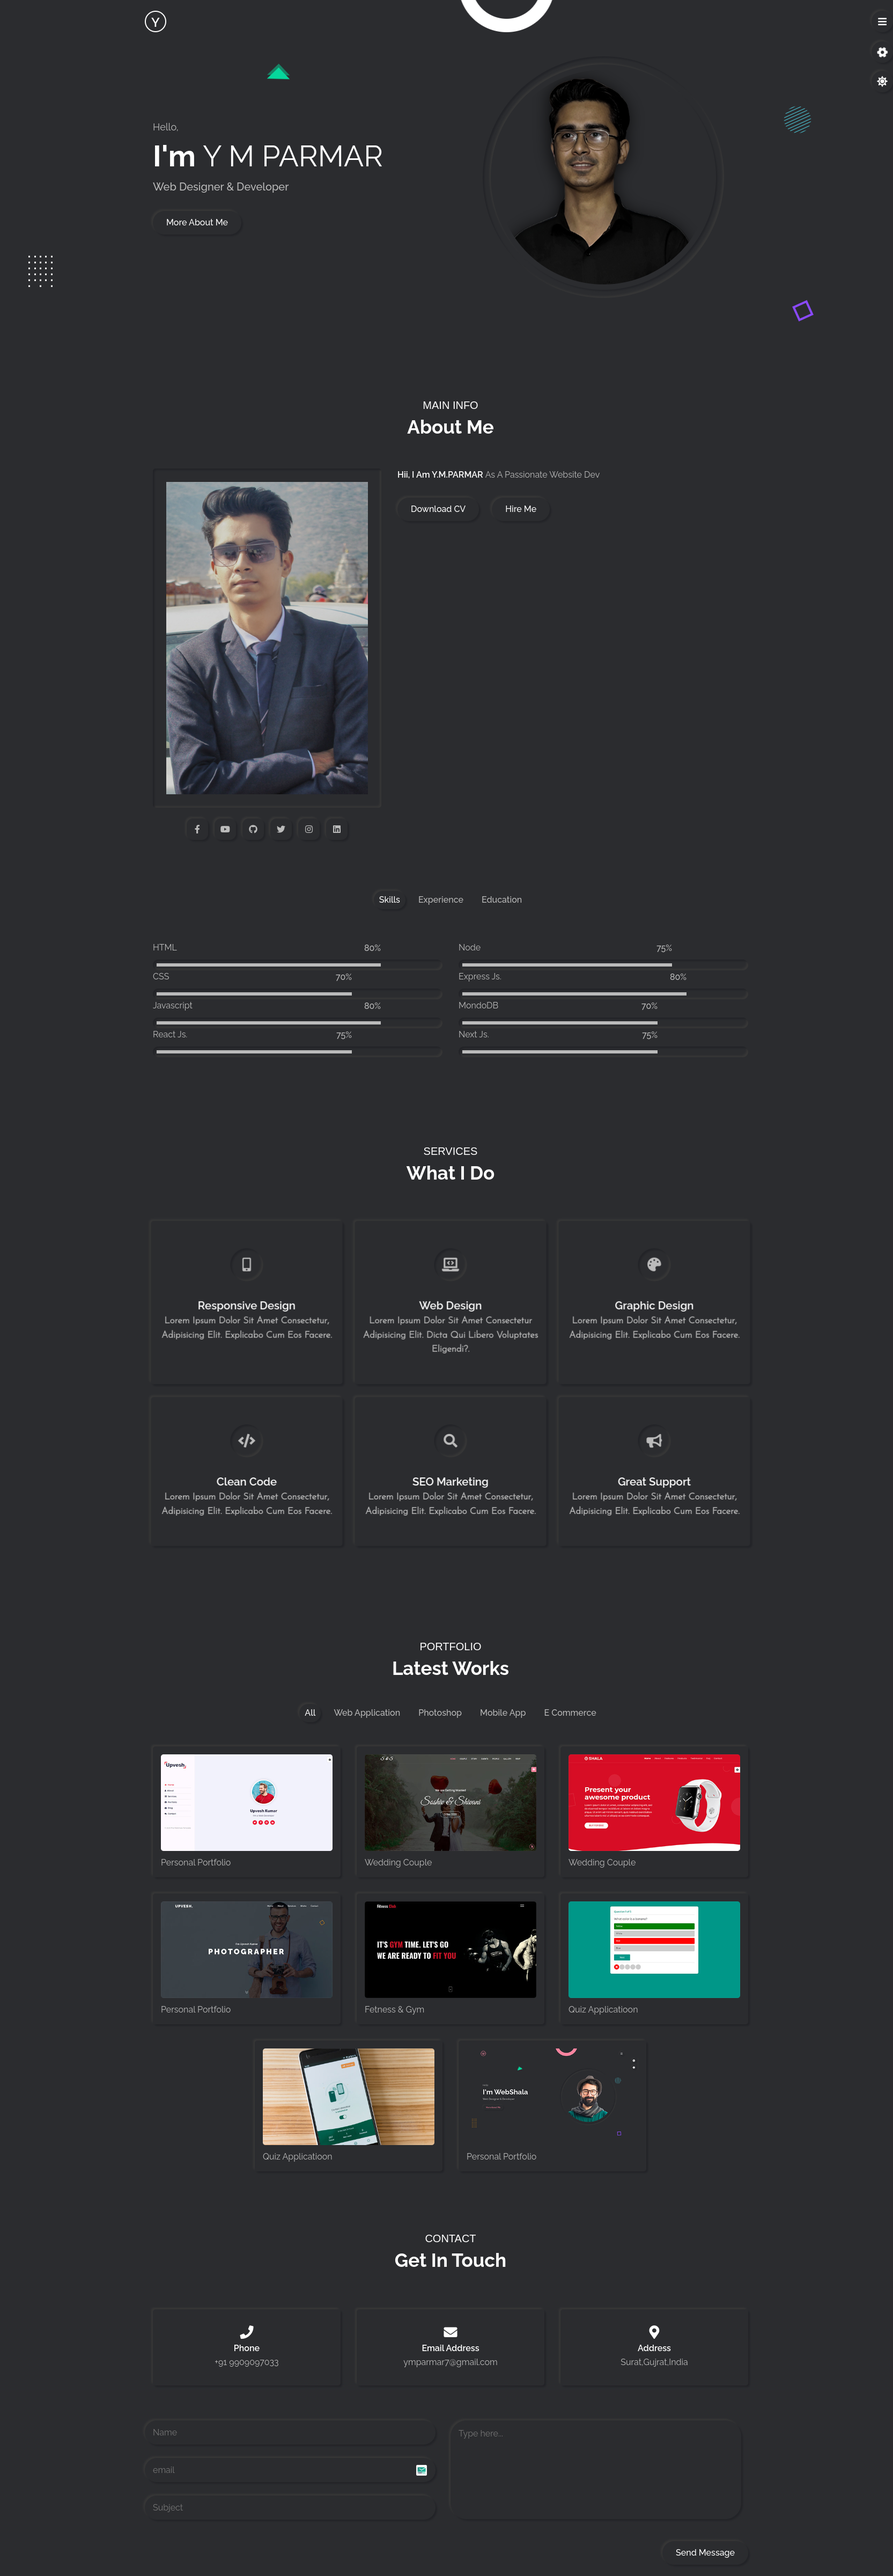
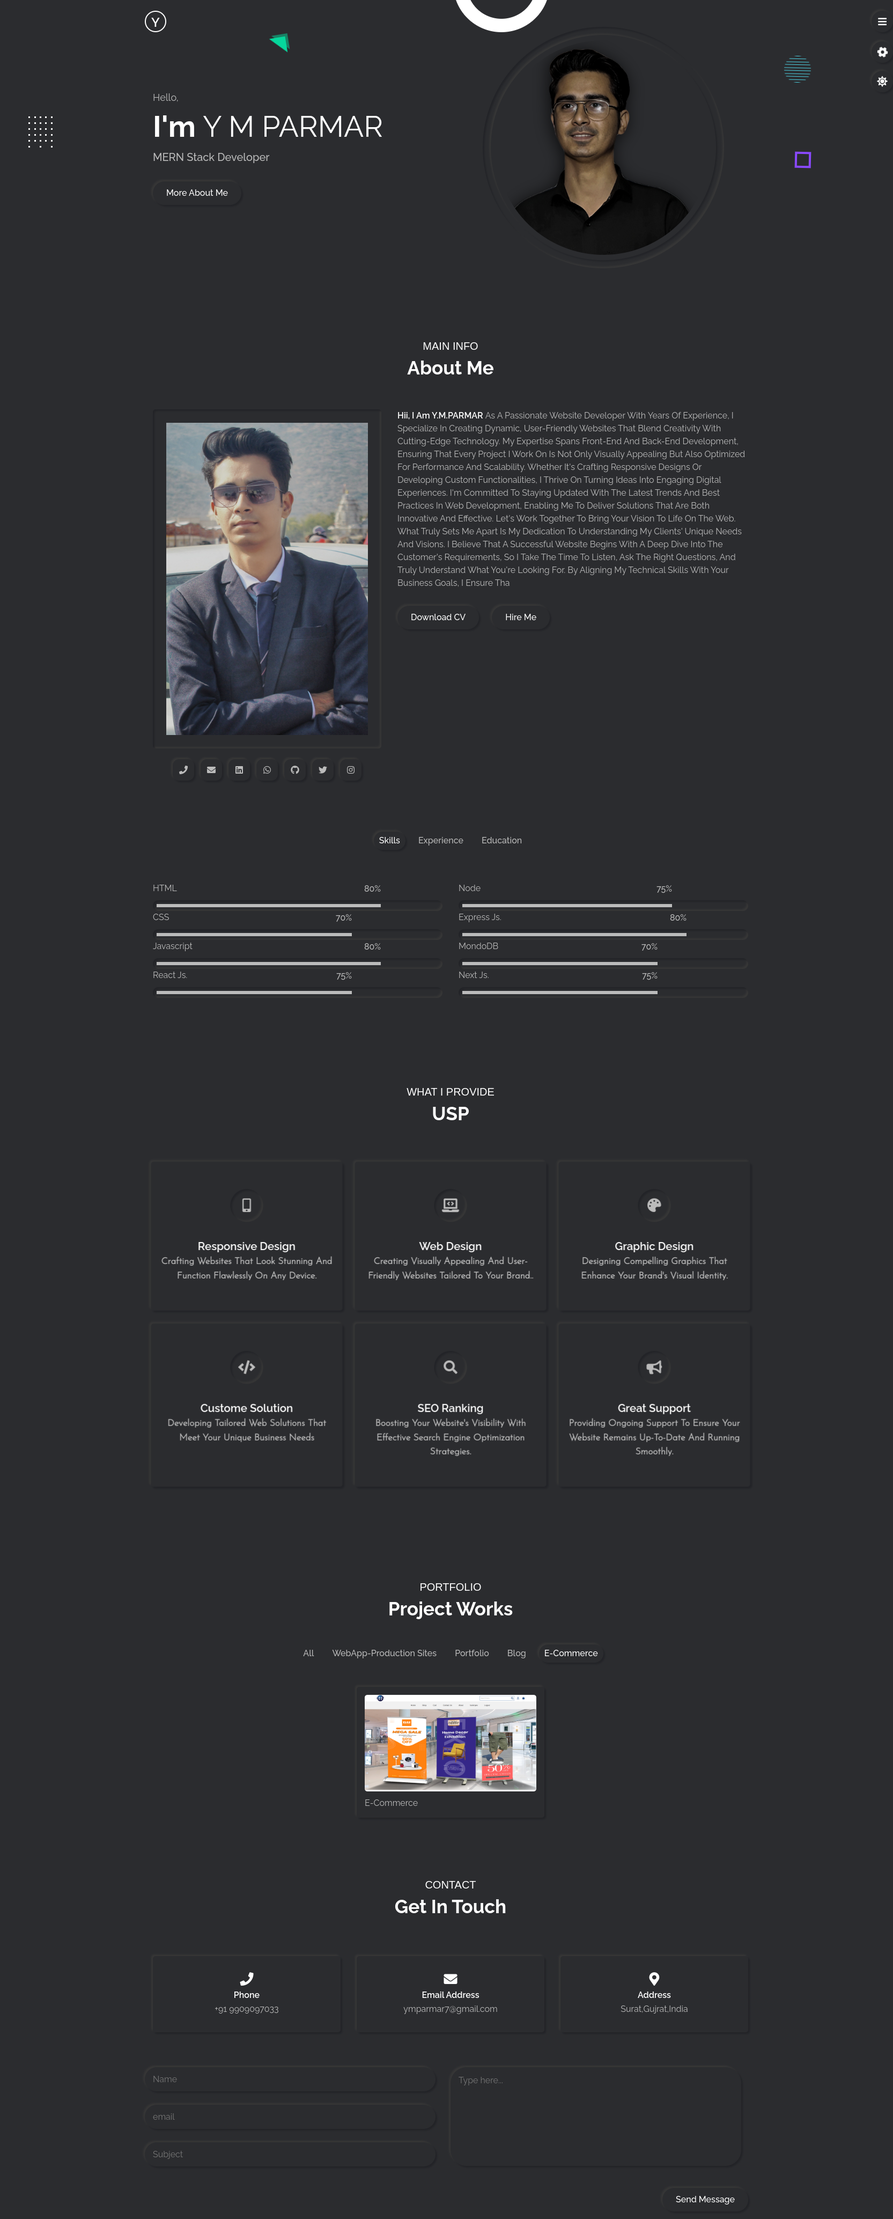
update

diff --git a/index.html b/index.html
@@ -444,7 +444,7 @@
                 <div class="row">
                   <div class="portfolio-filter">
                     <span class="filter-item outer-shadow active" data-target="all">All</span>
-                    <span class="filter-item" data-target="projects">WebApp</span>
+                    <span class="filter-item" data-target="projects">WebApp-production sites</span>
                     <span class="filter-item" data-target="portfolio">Portfolio </span>
                     <span class="filter-item" data-target="blog">Blog </span>
                     <span class="filter-item" data-target="e-commerce">e-commerce</span>
@@ -467,20 +467,20 @@
                         <!-- view project button  -->
                         <span class="view-project">view project</span>
                       </div>
-                      <p class="portfolio-item-title">portfolio website</p>
+                      <p class="portfolio-item-title">WebApp-Production site</p>
                       <!-- ========== Start portfolio item details ========== -->
                           <div class="portfolio-item-details">
                             <div class="row">
                               <div class="description">
                                 <h3>Project brief: </h3>
-                                <p>laxmopump is a site</p>
+                                <p>laxmopump is a user interactive site to display pumps and motors in which customer can get overview of pumps. </p>
                               </div>
                               <div class="info">
                                 <h3>Project info</h3>
                                 <ul>
                                   <li>Date - <span>2024</span></li>
                                   <li>Client - <span>Laxmopumps</span></li>
-                                  <li>Tools - <span>html, css, js, react ,firebase</span></li>
+                                  <li>Tools - <span>html, css, js, react ,firebase,redux</span></li>
                                   <li>Web - <span><a href="https://laxmopumps.com/" id="link" target="_next">laxmopumps.com</a></span></li>
                                 </ul>
                               </div>
@@ -491,31 +491,34 @@
                   </div>
                   <!-- ========== End portfolio item ========== -->
                   <!-- ========== Start portfolio item ========== -->
-                  <div class="portfolio-item" data-category="projects">
+                  <div class="portfolio-item" data-category="e-commerce">
                     <div class="portfolio-item-inner outer-shadow">
                       <div class="portfolio-item-image">
-                        <img src="img/portfolio/thumb/project-2.png" alt="portfolio" data-screenshots="img/portfolio/large/project-2/1.png, 
-                        img/portfolio/large/project-2/2.png"
+                        <img src="img/portfolio/thumb/project-2.png" alt="" data-screenshots="
+                        img/portfolio/large/project-2/1.png, 
+                        img/portfolio/large/project-2/2.png,
+                        img/portfolio/large/project-2/3.png,
+                        img/portfolio/large/project-2/4.png",  
                         >
 
                         <!-- view project button  -->
                         <span class="view-project">view project</span>
                       </div>
-                      <p class="portfolio-item-title">wedding couple</p>
+                      <p class="portfolio-item-title">E-commerce</p>
                       <!-- ========== Start portfolio item details ========== -->
                           <div class="portfolio-item-details">
                             <div class="row">
                               <div class="description">
                                 <h3>Project brief: </h3>
-                                <p>Lorem ipsum dolor, sit amet consectetur adipisicing elit. Hic doloribus labore assumenda nostrum commodi. Officia.</p>
+                                <p>Hariimpex is surat based menufacturer. i made a e-commerce site to ease their business with inmtegrating payment gateway </p>
                               </div>
                               <div class="info">
                                 <h3>Project info</h3>
                                 <ul>
-                                  <li>Date - <span>2021</span></li>
-                                  <li>Client - <span>xyz</span></li>
-                                  <li>Tools - <span>html, css, Jquery</span></li>
-                                  <li>Web - <span><a href="#" id="link" target="_next">www.morsed.com/project_name</a></span></li>
+                                  <li>Date - <span>2024</span></li>
+                                  <li>Client - <span>Hariimpex</span></li>
+                                  <li>Tools - <span>html, css, JavaScript, react,redux, firebase</span></li>
+                                  <li>Web - <span><a href="https://hariimpex.in/" id="link" target="_next">Hariimpex.in</a></span></li>
                                 </ul>
                               </div>
                             </div>
@@ -526,35 +529,34 @@
                   <!-- ========== End portfolio item ========== -->
 
                   <!-- ========== Start portfolio item ========== -->
-                  <div class="portfolio-item" data-category="e-commerce">
+                  <div class="portfolio-item" data-category="projects">
                     <div class="portfolio-item-inner outer-shadow">
                       <div class="portfolio-item-image">
                         <img src="img/portfolio/thumb/project-3.png" alt="portfolio" data-screenshots="
                         img/portfolio/large/project-3/1.png, 
                         img/portfolio/large/project-3/2.png,
                         img/portfolio/large/project-3/3.png,
-                        img/portfolio/large/project-3/4.png,
                         img/portfolio/large/project-3/5.png
                         ">
 
                         <!-- view project button  -->
                         <span class="view-project">view project</span>
                       </div>
-                      <p class="portfolio-item-title">wedding couple</p>
+                      <p class="portfolio-item-title">WebApp Demo site</p>
                       <!-- ========== Start portfolio item details ========== -->
                           <div class="portfolio-item-details">
                             <div class="row">
                               <div class="description">
                                 <h3>Project brief: </h3>
-                                <p>Lorem Lorem ipsum dolor sit amet consectetur, adipisicing elit. Nulla illo atque accusantium debitis non necessitatibus laboriosam architecto quas voluptatem? Autem hic in molestias rerum laborum ex ratione voluptatibus impedit aliquam! ipsum dolor, sit amet consectetur adipisicing elit. Hic doloribus labore assumenda nostrum commodi. Officia.</p>
+                                <p>weasly store is a beautiful UI project to enhance skill using react.</p>
                               </div>
                               <div class="info">
-                                <h3>product loading page</h3>
+                                <h3>project info</h3>
                                 <ul>
-                                  <li>Date - <span>2021</span></li>
-                                  <li>Client - <span>xyz</span></li>
-                                  <li>Tools - <span>html, css, Jquery, PHP, Ajax</span></li>
-                                  <li>Web - <span><a href="#" id="link" target="_next">www.morsed.com/project_name</a></span></li>
+                                  <li>Date - <span>2024</span></li>
+                                  <li>Client - <span>personal project</span></li>
+                                  <li>Tools - <span>html, css, JavaScript, react, redux</span></li>
+                                  <li>Web - <span><a href="https://mntn-ui.vercel.app/" id="link" target="_next">Weasly store</a></span></li>
                                 </ul>
                               </div>
                             </div>
@@ -564,7 +566,7 @@
                   </div>
                   <!-- ========== End portfolio item ========== -->
                   <!-- ========== Start portfolio item ========== -->
-                  <div class="portfolio-item" data-category="projects">
+                  <div class="portfolio-item" data-category="portfolio">
                     <div class="portfolio-item-inner outer-shadow">
                       <div class="portfolio-item-image">
                         <img src="img/portfolio/thumb/project-4.png" alt="portfolio" data-screenshots="
@@ -579,15 +581,15 @@
                             <div class="row">
                               <div class="description">
                                 <h3>Project brief: </h3>
-                                <p>Lorem ipsum dolor, sit amet consectetur adipisicing elit. Hic doloribus labore assumenda nostrum commodi. Officia.</p>
+                                <p>MNTN is a beautiful UI for the mountain hiking landing page to showcase my skill in HTML and CSS.</p>
                               </div>
                               <div class="info">
-                                <h3>product loading page</h3>
+                                <h3>Project Info</h3>
                                 <ul>
-                                  <li>Date - <span>2021</span></li>
-                                  <li>Client - <span>xyz</span></li>
-                                  <li>Tools - <span>html, css, Jquery, PHP, Ajax</span></li>
-                                  <li>Web - <span><a href="#" id="link" target="_next">www.morsed.com/project_name</a></span></li>
+                                  <li>Date - <span>2024</span></li>
+                                  <li>Client - <span>Personal Project</span></li>
+                                  <li>Tools - <span>html, css</span></li>
+                                  <li>Web - <span><a href="https://mntn-ui.vercel.app/" id="link" target="_next">MNTN - mountain</a></span></li>
                                 </ul>
                               </div>
                             </div>
@@ -597,7 +599,7 @@
                   </div>
                   <!-- ========== End portfolio item ========== -->
                   <!-- ========== Start portfolio item ========== -->
-                  <div class="portfolio-item" data-category="projects">
+                  <div class="portfolio-item" data-category="portfolio">
                     <div class="portfolio-item-inner outer-shadow">
                       <div class="portfolio-item-image">
                         <img src="img/portfolio/thumb/project-5.png" alt="portfolio" data-screenshots="
@@ -606,21 +608,21 @@
                         <!-- view project button  -->
                         <span class="view-project">view project</span>
                       </div>
-                      <p class="portfolio-item-title">fetness & gym</p>
+                      <p class="portfolio-item-title">Portfolio</p>
                       <!-- ========== Start portfolio item details ========== -->
                           <div class="portfolio-item-details">
                             <div class="row">
                               <div class="description">
                                 <h3>Project brief: </h3>
-                                <p>Lorem ipsum dolor, sit amet consectetur adipisicing elit. Hic doloribus labore assumenda nostrum commodi. Officia.</p>
+                                <p>tec solution is a user interactive design and responsive website  for the IT service provide</p>
                               </div>
                               <div class="info">
-                                <h3>product loading page</h3>
+                                <h3>Project Info</h3>
                                 <ul>
-                                  <li>Date - <span>2021</span></li>
-                                  <li>Client - <span>xyz</span></li>
-                                  <li>Tools - <span>html, css, Jquery, PHP, Ajax</span></li>
-                                  <li>Web - <span><a href="#" id="link" target="_next">www.morsed.com/project_name</a></span></li>
+                                  <li>Date - <span>2024</span></li>
+                                  <li>Client - <span>compony portfolio</span></li>
+                                  <li>Tools - <span>html, css, Javascript</span></li>
+                                  <li>Web - <span><a href="https://tecsolution.vercel.app/" id="link" target="_next">tec solution</a></span></li>
                                 </ul>
                               </div>
                             </div>
@@ -631,33 +633,30 @@
                   <!-- ========== End portfolio item ========== -->
                   
                   <!-- ========== Start portfolio item ========== -->
-                  <div class="portfolio-item" data-category="projects">
+                  <div class="portfolio-item" data-category="portfolio">
                     <div class="portfolio-item-inner outer-shadow">
                       <div class="portfolio-item-image">
                         <img src="img/portfolio/thumb/project-6.png" alt="portfolio" data-screenshots="
-                        img/portfolio/large/project-6/1.png,
-                        img/portfolio/large/project-6/2.png,
-                        img/portfolio/large/project-6/3.png,
-                        ">
+                        img/portfolio/large/project-6/1.png">
 
                         <!-- view project button  -->
                         <span class="view-project">view project</span>
                       </div>
-                      <p class="portfolio-item-title">quiz applicatioon</p>
+                      <p class="portfolio-item-title">Personal Portfolio</p>
                       <!-- ========== Start portfolio item details ========== -->
                           <div class="portfolio-item-details">
                             <div class="row">
                               <div class="description">
                                 <h3>Project brief: </h3>
-                                <p>Lorem ipsum dolor, sit amet consectetur adipisicing elit. Hic doloribus labore assumenda nostrum commodi. Officia.</p>
+                                <p>this is a personal portfolio to showcase my skill and project.</p>
                               </div>
                               <div class="info">
-                                <h3>product loading page</h3>
+                                <h3>Project info</h3>
                                 <ul>
                                   <li>Date - <span>2021</span></li>
-                                  <li>Client - <span>xyz</span></li>
-                                  <li>Tools - <span>html, css, Jquery, PHP, Ajax</span></li>
-                                  <li>Web - <span><a href="#" id="link" target="_next">www.morsed.com/project_name</a></span></li>
+                                  <li>Client - <span>Personal Portfolio</span></li>
+                                  <li>Tools - <span>html, css, JavaScript, Jquery</span></li>
+                                  <li>Web - <span><a href="https://ymparmar.vercel.app/" id="link" target="_next">portfolio</a></span></li>
                                 </ul>
                               </div>
                             </div>
@@ -667,33 +666,29 @@
                   </div>
                   <!-- ========== End portfolio item ========== -->
                   <!-- ========== Start portfolio item ========== -->
-                  <div class="portfolio-item" data-category="blog">
+                  <div class="portfolio-item" data-category="projects">
                     <div class="portfolio-item-inner outer-shadow">
                       <div class="portfolio-item-image">
-                        <img src="img/portfolio/thumb/project-7.png" alt="portfolio" data-screenshots="
-                        img/portfolio/large/project-7/1.png,
-                        img/portfolio/large/project-7/2.png,
-                        ">
+                        <img src="img/portfolio/large/project-7/1.png" alt="calculator" data-screenshots="img/portfolio/large/project-7/1.png">
 
                         <!-- view project button  -->
                         <span class="view-project">view project</span>
                       </div>
-                      <p class="portfolio-item-title">quiz applicatioon</p>
+                      <p class="portfolio-item-title">Calculator </p>
                       <!-- ========== Start portfolio item details ========== -->
                           <div class="portfolio-item-details">
                             <div class="row">
                               <div class="description">
                                 <h3>Project brief: </h3>
-                                <p>Lorem ipsum dolor, sit amet consectetur adipisicing elit. Hic doloribus labore assumenda nostrum commodi. Officia.</p>
+                                <p>i made a simple Calculator to build logic.</p>
                               </div>
                               <div class="info">
-                                <h3>product loading page</h3>
+                                <h3>Project info</h3>
                                 <ul>
-                                  <li>Date - <span>2021</span></li>
-                                  <li>Client - <span>xyz</span></li>
-                                  <li>Tools - <span>html, css, Jquery, PHP, Ajax</span></li>
-                                  <li>Web - <span><a href="#" id="link" target="_next">www.morsed.com/project_name</a></span></li>
-                                  <li>Web - <span><a href="#" id="link" target="_next">www.morsed.com/project_name</a></span></li>
+                                  <li>Date - <span>2024</span></li>
+                                  <li>Client - <span>Personal Project</span></li>
+                                  <li>Tools - <span>html, css, JavaScript</span></li>
+                                  <li>Web - <span><a href="https://calculator-ymparmar.vercel.app/" id="link" target="_next">calculator</a></span></li>
                                 </ul>
                               </div>
                             </div>
@@ -707,14 +702,32 @@
                     <div class="portfolio-item-inner outer-shadow">
                       <div class="portfolio-item-image">
                         <img src="img/portfolio/thumb/project-8.png" alt="portfolio" data-screenshots="
-                        img/portfolio/large/project-8/1.png,
-                        img/portfolio/large/project-8/2.png,
-                        ">
+                        img/portfolio/large/project-8/1.png">
 
                         <!-- view project button  -->
                         <span class="view-project">view project</span>
                       </div>
-                      <p class="portfolio-item-title">personal portfolio</p>
+                      <p class="portfolio-item-title">portfolio</p>
+
+                       <!-- ========== Start portfolio item details ========== -->
+                       <div class="portfolio-item-details">
+                        <div class="row">
+                          <div class="description">
+                            <h3>Project brief: </h3>
+                            <p>i made a tribute page to my idol sir ratan tata. </p>
+                          </div>
+                          <div class="info">
+                            <h3>Project info</h3>
+                            <ul>
+                              <li>Date - <span>2024</span></li>
+                              <li>Client - <span>Personal Project</span></li>
+                              <li>Tools - <span>html, css, JavaScript</span></li>
+                              <li>Web - <span><a href="https://ratan-tata.vercel.app/" id="link" target="_next">ratan tata</a></span></li>
+                            </ul>
+                          </div>
+                        </div>
+                      </div>
+                  <!-- ========== End portfolio item details ========== -->
                       
                     </div>
                   </div>
@@ -828,7 +841,7 @@
                       <li>Date - <span>2024</span></li>
                       <li>Client - <span>xyz</span></li>
                       <li>Tools - <span>html, css, js</span></li>
-                      <li>Web - <span><a href="#" id="link" id="link" target="_next">www.morsed.com/project_name</a></span></li>
+                      <li>Web - <span><a href="#" id="link" id="link" target="_next">project_name</a></span></li>
                     </ul>
                   </div>
                 </div>
